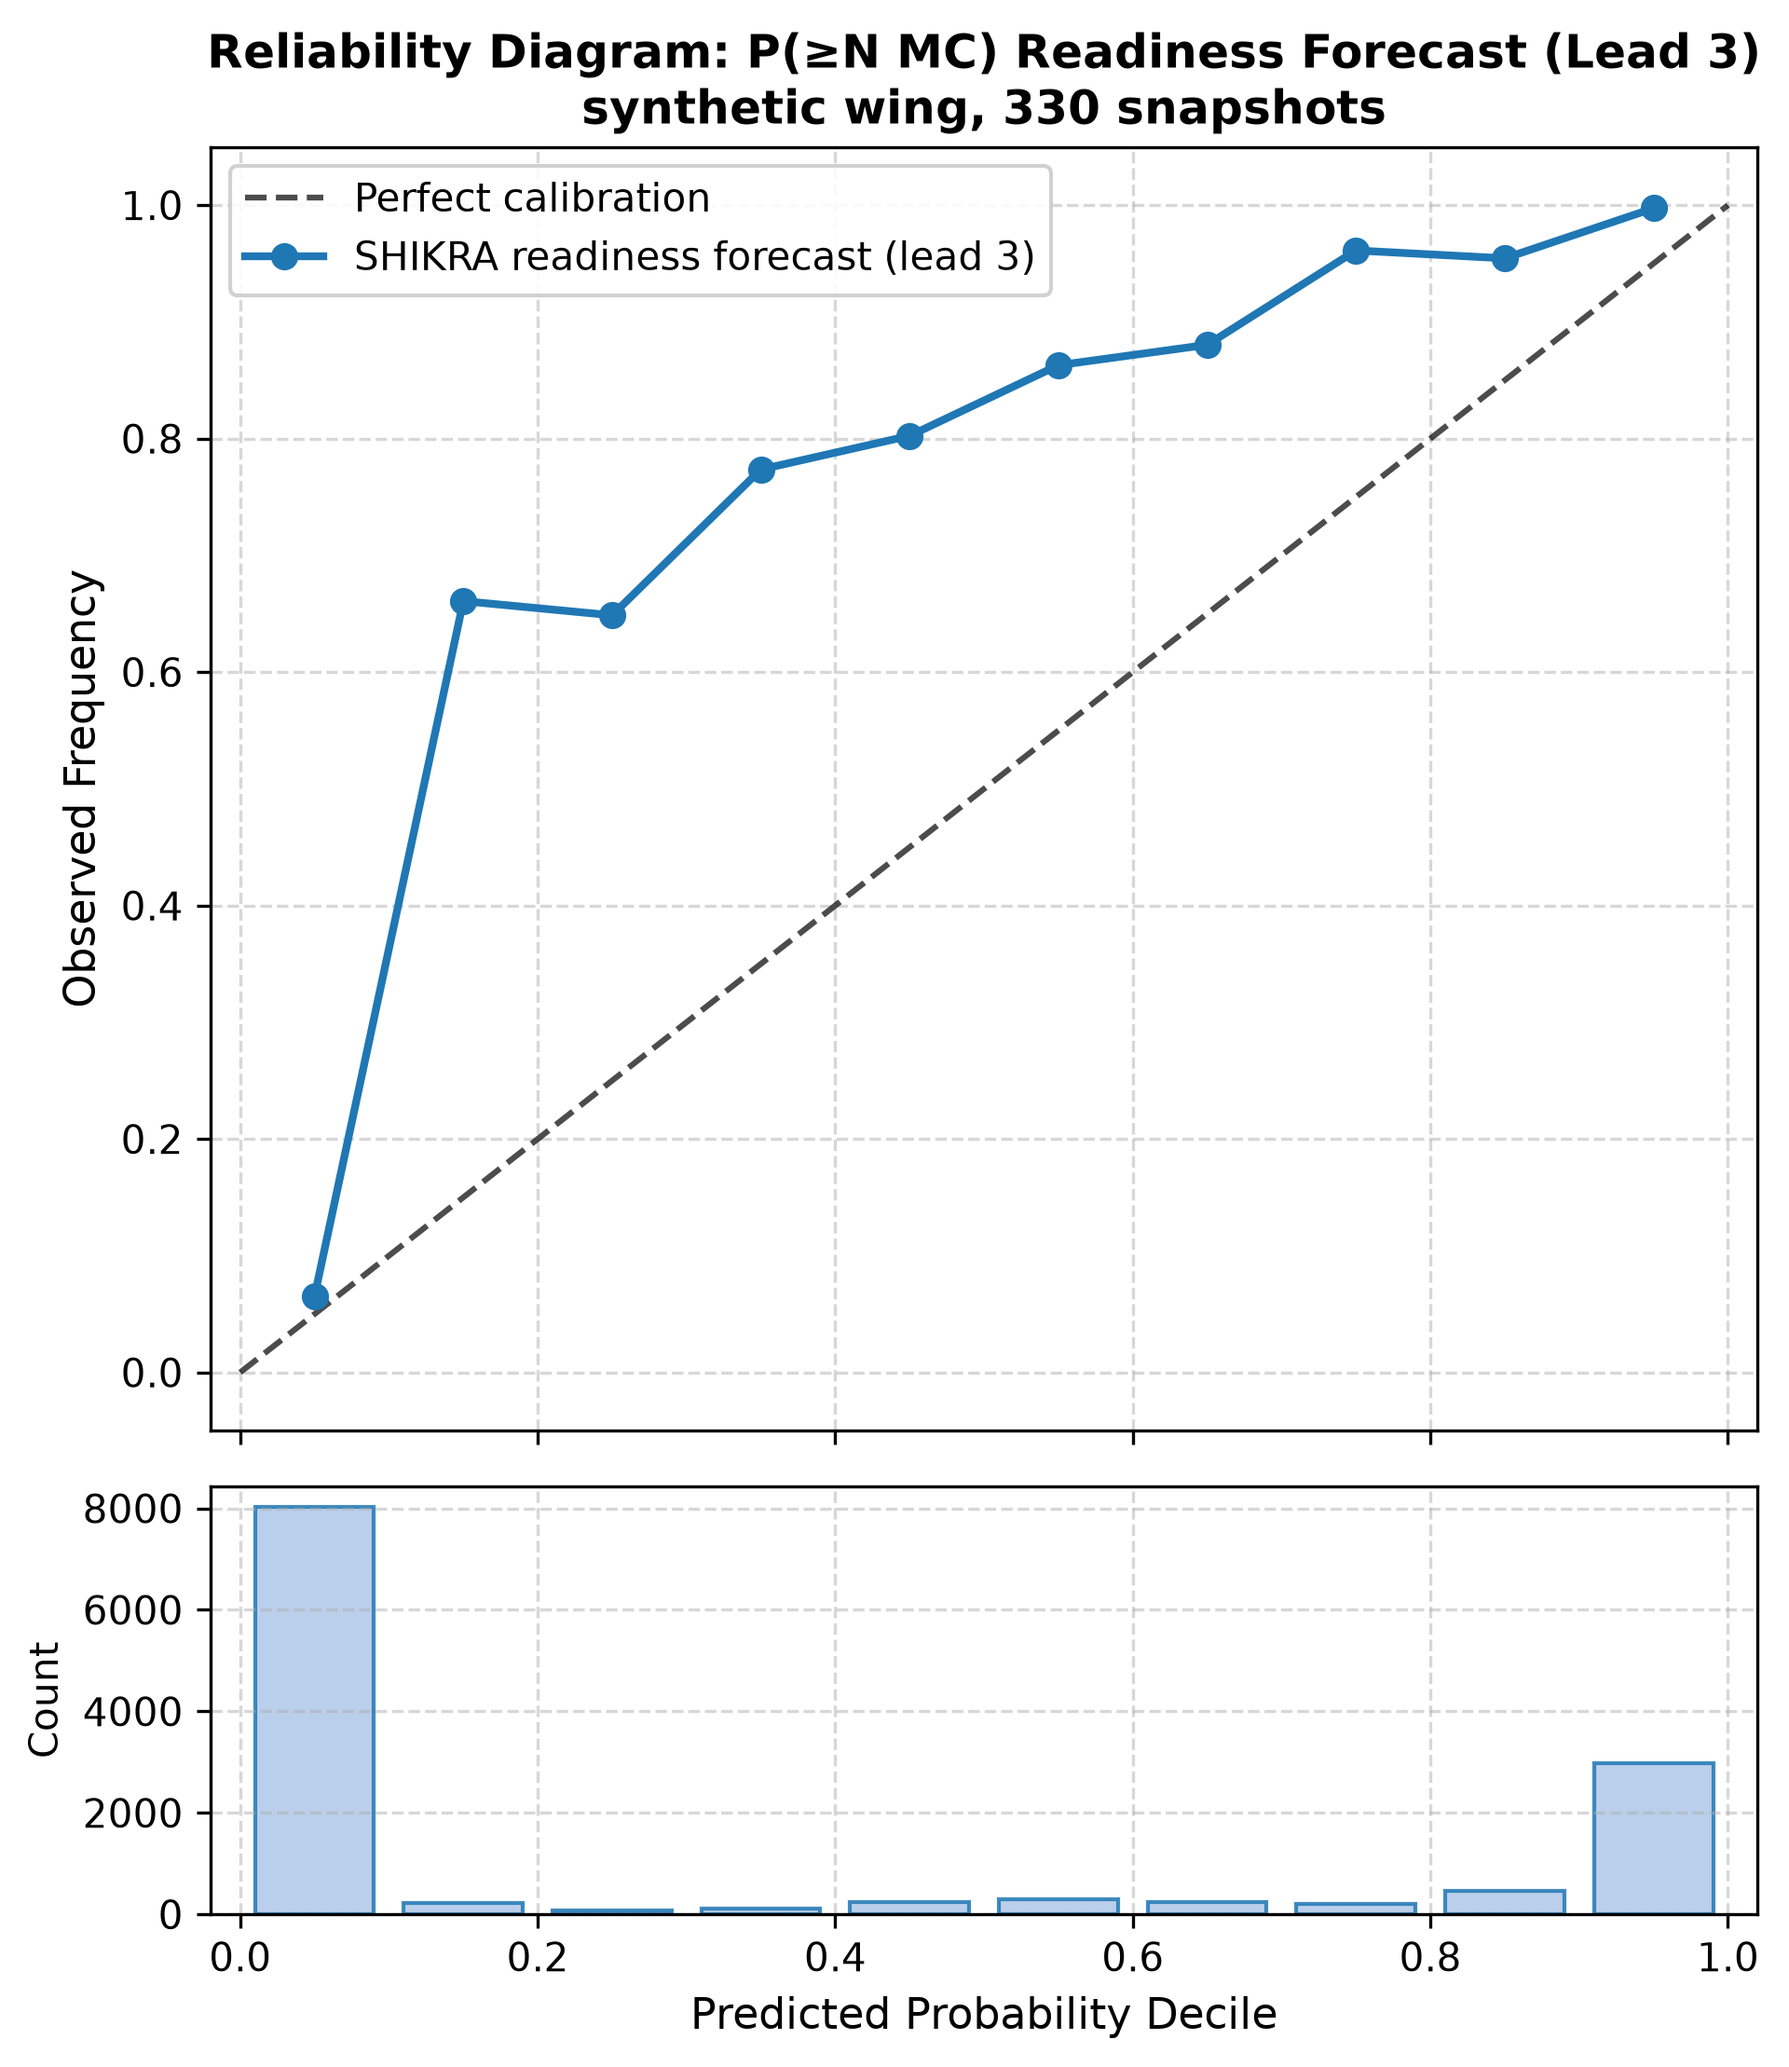
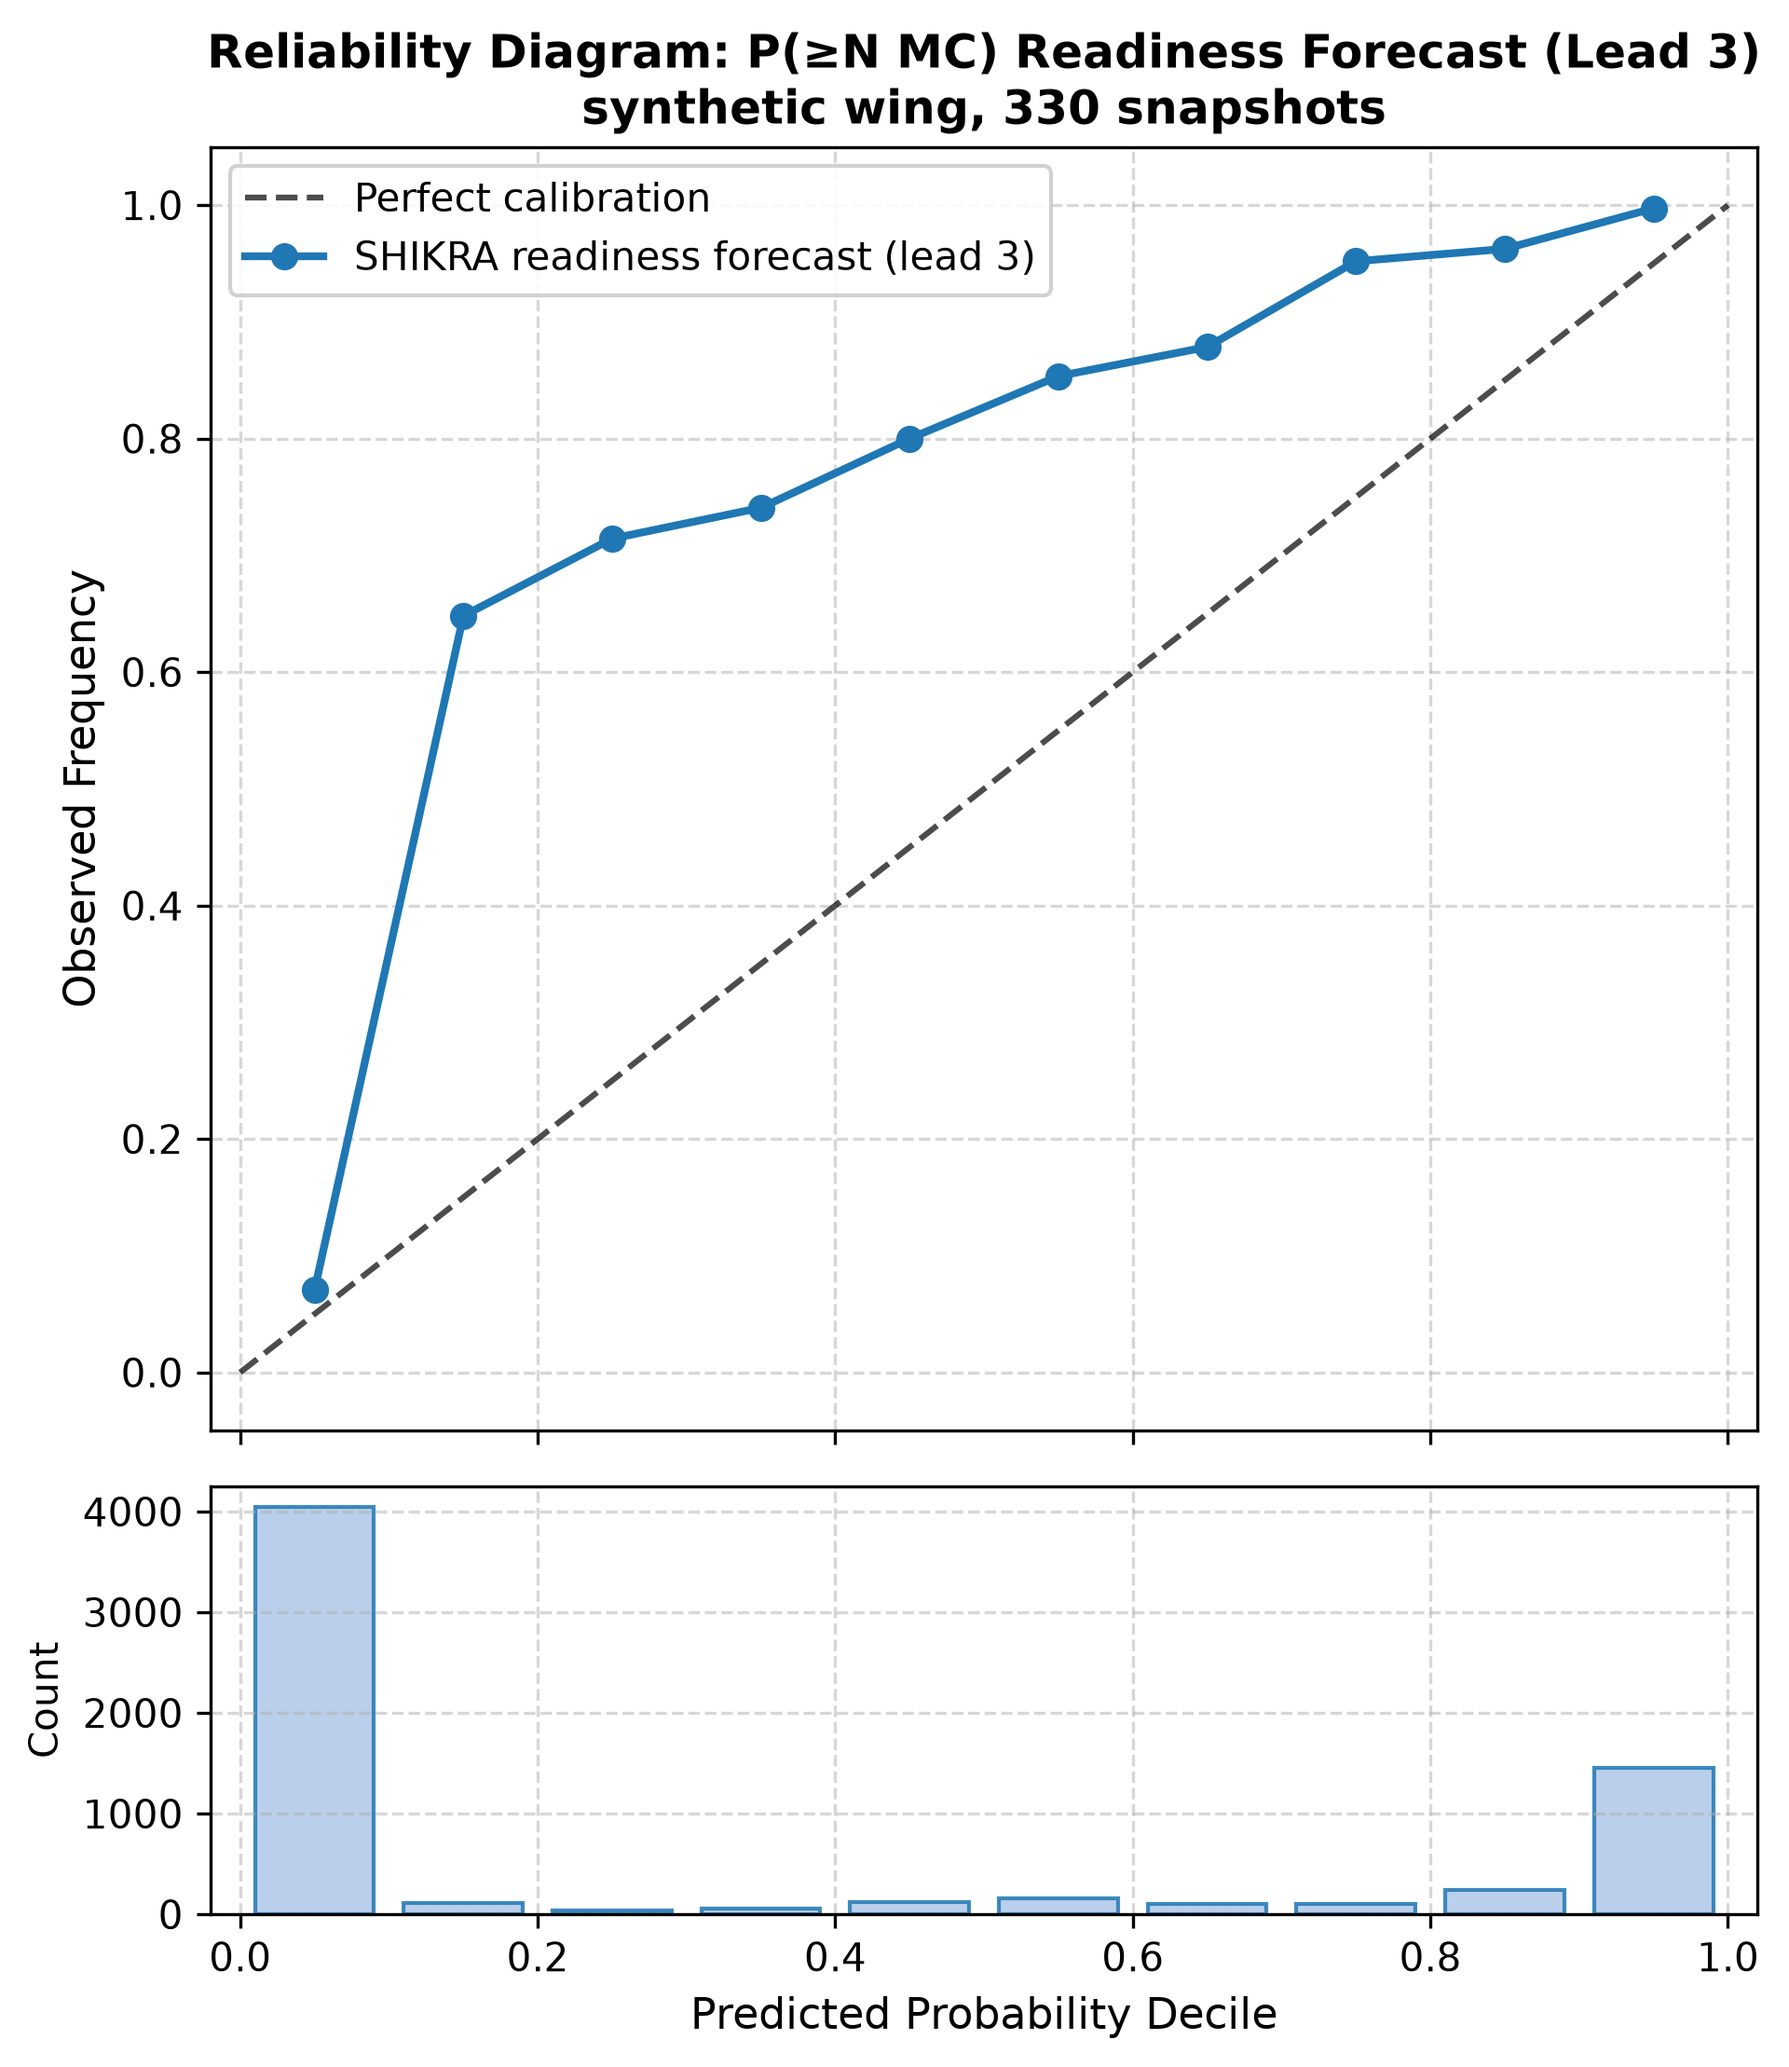
results(a10): add heldout conformal calibration

diff --git a/results/FINDINGS_A10.md b/results/FINDINGS_A10.md
@@ -4,35 +4,22 @@ The v2 calibration uses `shikra_v2`, `pipeline_mult=1.7`, seeds 1-30, and
 330 end-of-day snapshots from days 395 through 695. Each snapshot evaluates
 three squadrons.
 
-The raw conformal-free bands under-cover: coverage is 0.59 at D+3 and 0.41
-at D+7. The forecast loses to persistence on MAE at both leads, and also on
-Brier score at D+7.
+The raw bands under-cover: the original all-seed calibration measured 0.59 at
+D+3 and 0.41 at D+7. On the held-out seeds 16-30, raw coverage is
+0.5576 at D+3 and 0.4101 at D+7.
+The forecast loses to persistence on MAE at both leads.
 
-## Conformal calibration plan
+## Conformal calibration result
 
-Before evaluating the held-out seeds, compute the absolute error
-`abs(realised_mc - expected_mc)` for every squadron, snapshot day, and lead on
-seeds 1-15. For each lead, use the empirical 80th percentile of those errors
-as a nonnegative additive widening on both sides of the raw `[mc_q10, mc_q90]`
-band. Keep the forecast mean and threshold probabilities unchanged. Evaluate
-the widened band, raw forecast, persistence, and leave-one-seed-out
-climatology on seeds 16-30 only, reporting coverage, MAE, and Brier by lead.
-This is a single calibration split with no tuning.
+The 80th percentile absolute-error widening is applied separately by lead,
+using seeds 1-15, and evaluated on seeds 16-30. Conformal coverage is
+0.8626 at D+3 and 0.9495
+at D+7. Conformal widening changes the interval coverage only; its MAE and
+Brier score remain the raw forecast values. Persistence remains better on MAE
+at both leads, and the conformal method is not a validated replacement for
+persistence.
 
-At lead 3, the readiness forecast improves coverage and Brier score over
-persistence, but its MAE is higher. At lead 7, it has lower coverage and is
-worse than persistence on both MAE and Brier score. These results are reported
-without tuning and do not support treating the forecast as superior to
-persistence at the seven-day lead.
-
-The climatology baseline is leave-one-seed-out, using each other seed's
-squadron MC counts on days 365-729. Forecasts use operational snapshot fields
-only; `rul_true` is stored for evaluation and is never an input to the
-readiness forecast.
-
-Action results are forecast-estimated gains and are not validated in
-simulation. The action model is a one-step approximation and does not capture
-future policy feedback, competing squadron demand, or uncertainty in the
-maintenance and transfer assumptions. Action evaluation is S2-only because
-the all-squadron run exceeded the available runtime budget; this scope is
-recorded in the action summary CSV.
+Action results use S2 only at n=200. They are forecast-estimated gains, not
+validated in simulation. The action model is a one-step approximation and
+does not capture future policy feedback, competing squadron demand, or
+uncertainty in maintenance and transfer assumptions.

diff --git a/MODEL_CARD.md b/MODEL_CARD.md
@@ -70,12 +70,14 @@ The readiness forecast uses `shikra_v2` at `pipeline_mult=1.7` and operational s
 
 | Lead | Method | 80% Coverage | MAE | Brier | Snapshots |
 |------|--------|--------------|-----|-------|-----------|
-| 3 | shikra_forecast | 58.7% | 1.284 | 0.070 | 330 |
-| 3 | persistence | 32.2% | 0.963 | 0.073 | 330 |
-| 3 | climatology | 83.7% | 2.130 | 0.114 | 330 |
-| 7 | shikra_forecast | 40.9% | 2.261 | 0.131 | 330 |
-| 7 | persistence | 20.3% | 1.508 | 0.114 | 330 |
-| 7 | climatology | 85.0% | 2.055 | 0.110 | 330 |
+| 3 | shikra_forecast | 55.8% | 1.326 | 0.073 | 165 |
+| 3 | shikra_conformal | 86.3% | 1.326 | 0.073 | 165 |
+| 3 | persistence | 31.1% | 0.982 | 0.074 | 165 |
+| 3 | climatology | 81.2% | 2.240 | 0.119 | 165 |
+| 7 | shikra_forecast | 41.0% | 2.274 | 0.132 | 165 |
+| 7 | shikra_conformal | 95.0% | 2.274 | 0.132 | 165 |
+| 7 | persistence | 19.8% | 1.552 | 0.117 | 165 |
+| 7 | climatology | 82.4% | 2.136 | 0.115 | 165 |
 
 Calibration covers 330 snapshots (days 395-695, seeds 1-30) and compares against persistence and leave-one-seed-out climatology from days 365-729. At lead 7, the forecast is worse than persistence on MAE and Brier score; it is not a validated replacement for the baselines.
 
@@ -83,10 +85,10 @@ Action rankings are forecast-estimated gains, not validated in simulation. They 
 
 | Action | Share best | Mean expected-MC gain | Share positive |
 |--------|------------|------------------------|----------------|
-| Transfer spare engine depot to squadron | 70.3% | 0.000 | 0.0% |
+| Transfer spare engine depot to squadron | 67.0% | 0.000 | 0.0% |
 | Expedite earliest pending engine repair by 50% | 0.0% | 0.000 | 0.0% |
-| Defer planned removal within safety margin (q10 > 0) | 3.0% | 0.019 | 3.0% |
-| Transfer scarcest LRU (APU starter) depot to squadron | 26.7% | 0.004 | 27.0% |
+| Defer planned removal within safety margin (q10 > 0) | 4.5% | 0.018 | 4.5% |
+| Transfer scarcest LRU (APU starter) depot to squadron | 28.5% | 0.008 | 28.8% |
 
 ## Known Failure Modes and Robustness Findings
 
